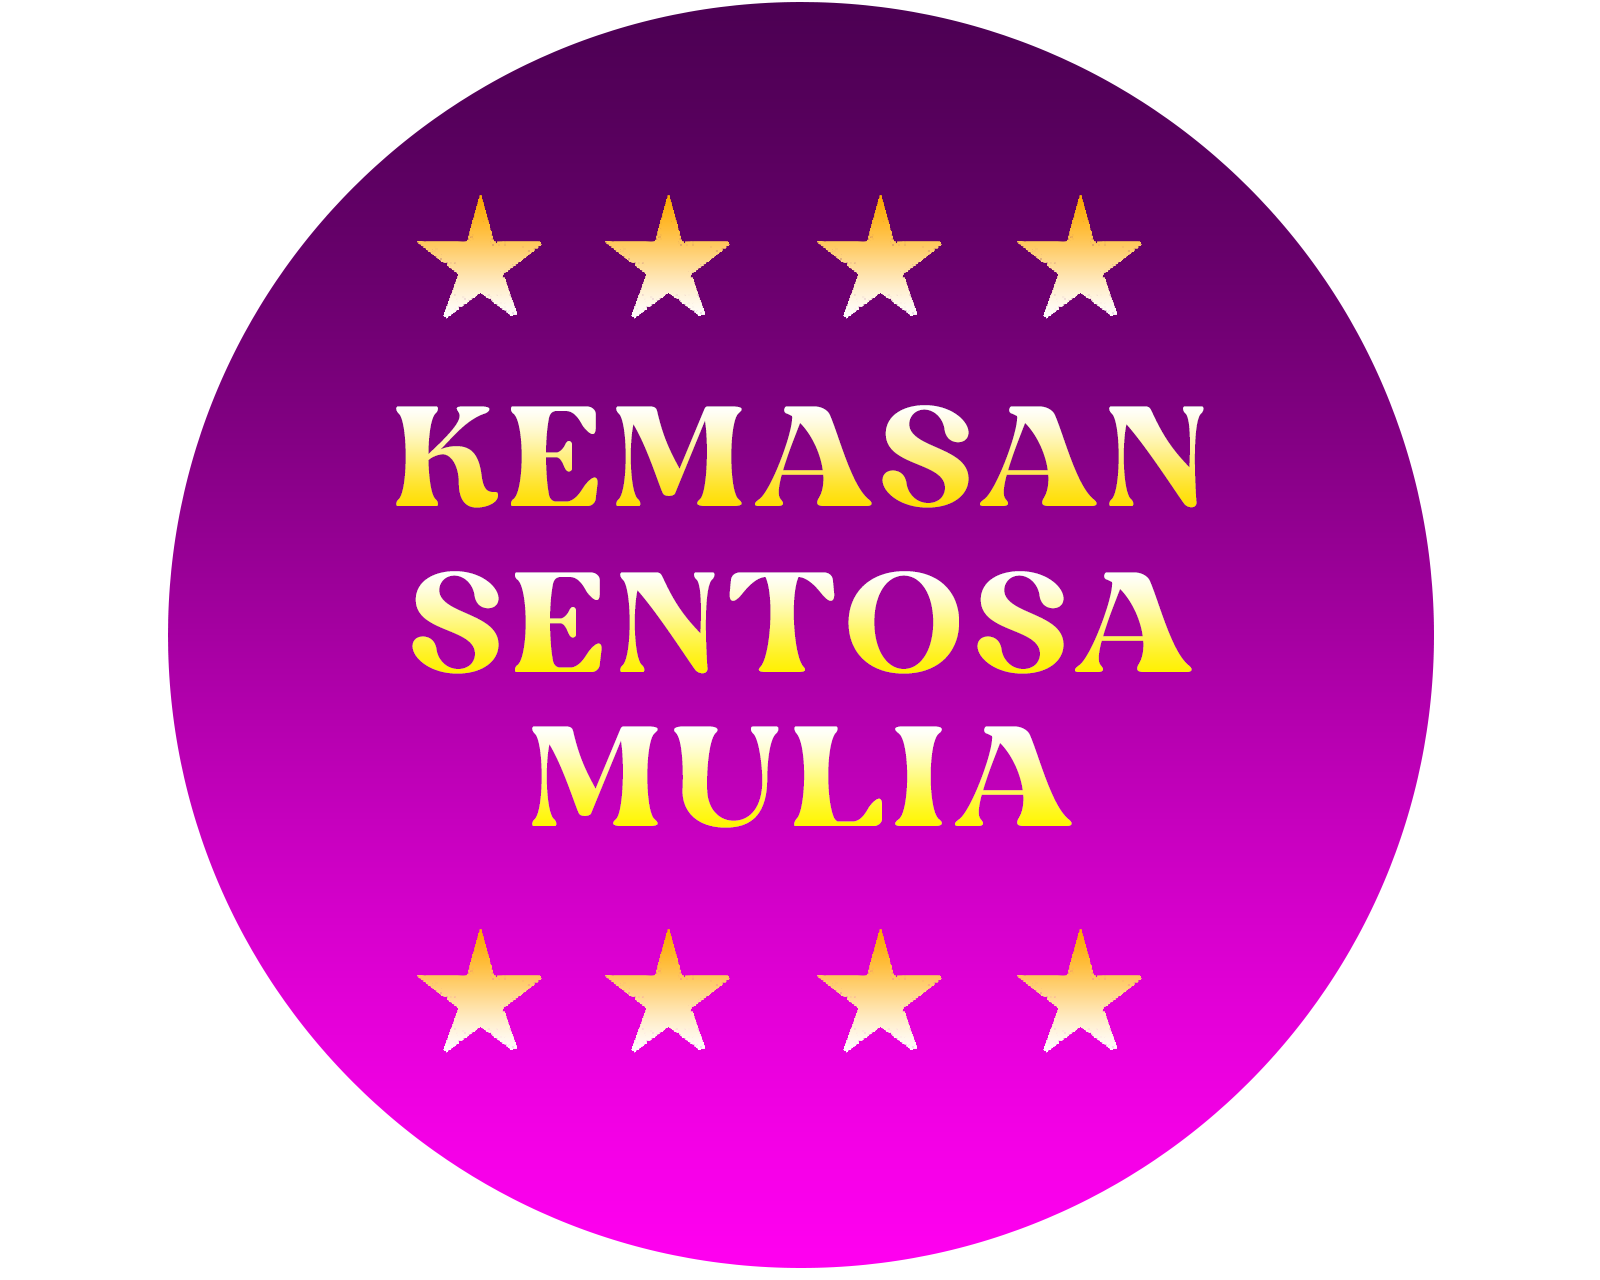
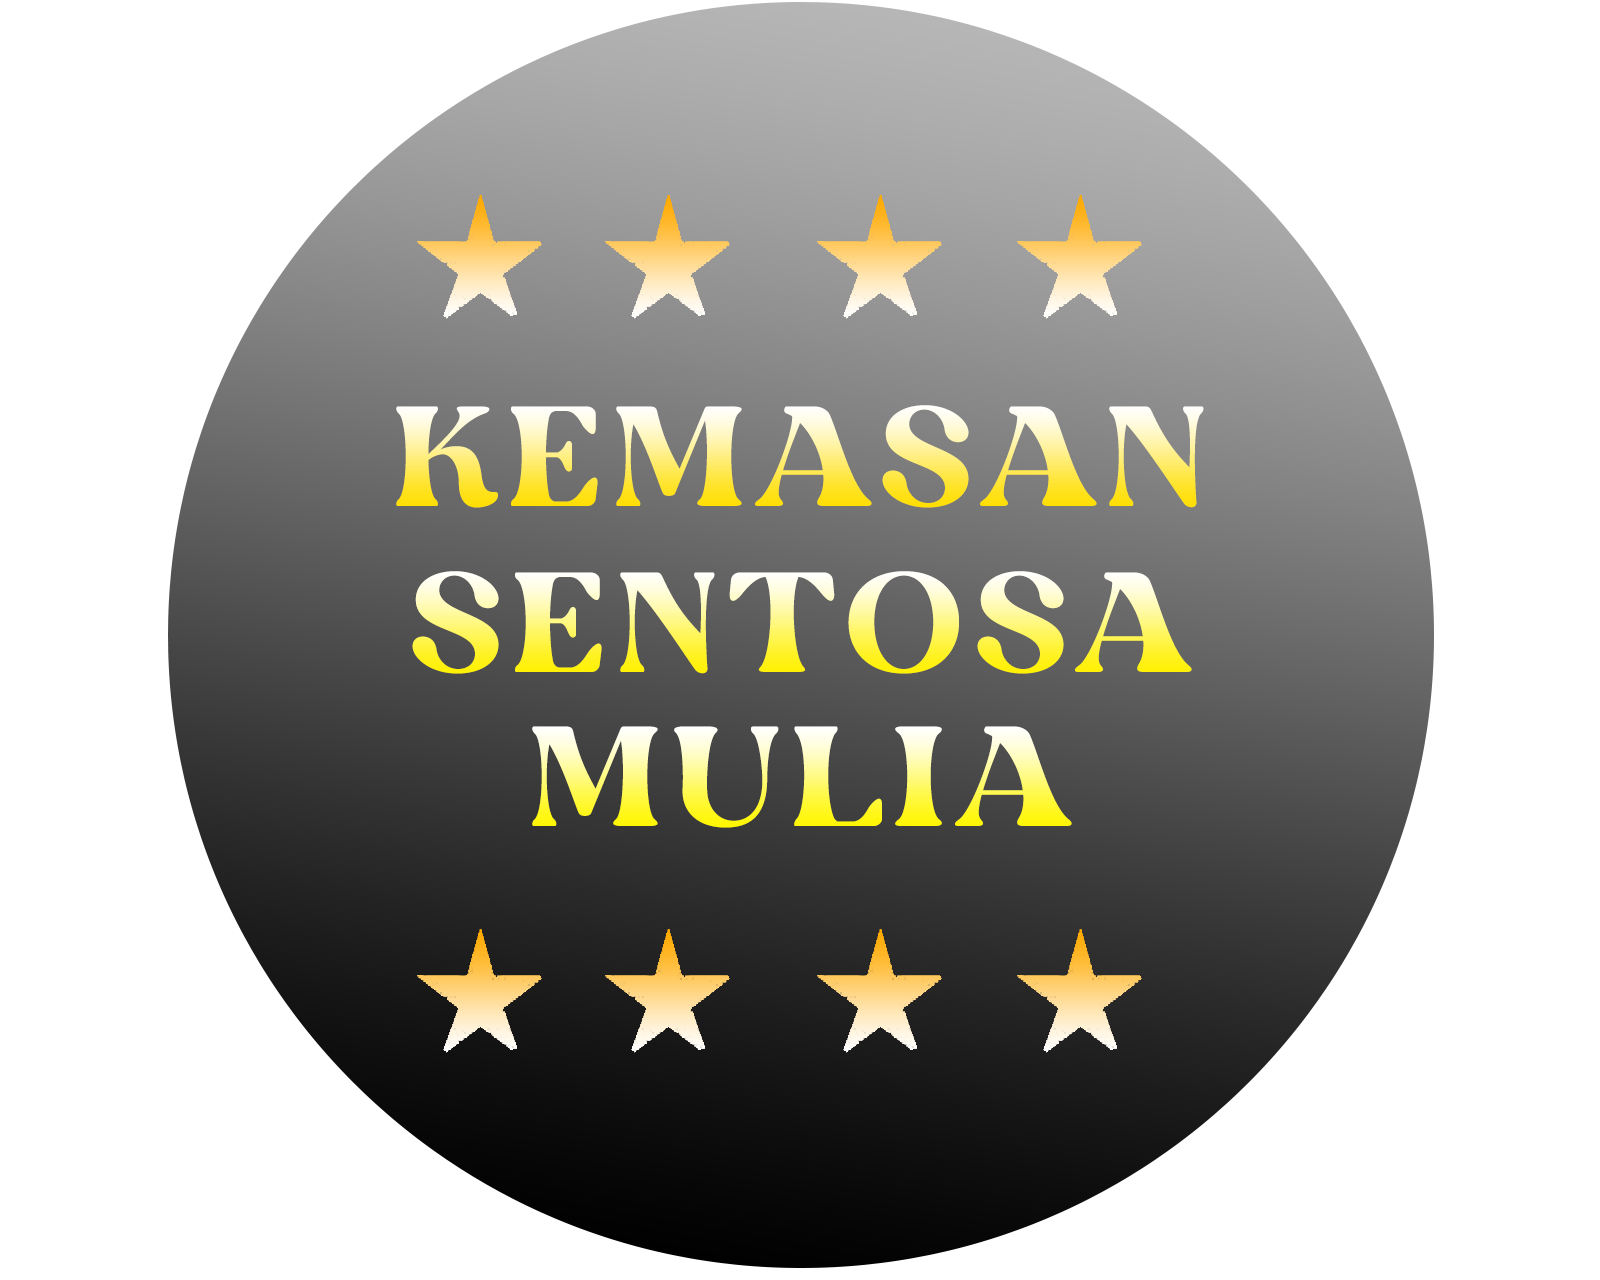
ubah warna ksm 070224

diff --git a/assets/dist/css/adminlte_ksm.min.css b/assets/dist/css/adminlte_ksm.min.css
@@ -2548,7 +2548,7 @@
  [class*=sidebar-light-] .nav-flat .nav-item .nav-treeview .nav-treeview{border-color:rgba(0,0,0,.1)}
  [class*=sidebar-light-] .nav-flat .nav-item .nav-treeview>.nav-item>.nav-link,[class*=sidebar-light-] .nav-flat .nav-item .nav-treeview>.nav-item>.nav-link.active{border-color:rgba(0,0,0,.1)}
  /* ganti */
- [class*=sidebar-dark-]{background-color:#343a40;background-image: linear-gradient(180deg,#ff11f6 10%,#450754 100%);} 
+ [class*=sidebar-dark-]{background-color:#343a40;background-image: linear-gradient(180deg,#f8f9fc 10%,#000000 100%);} 
  [class*=sidebar-dark-] .user-panel a:hover{color:#fff}
  [class*=sidebar-dark-] .user-panel .status{background:rgba(255,255,255,.1);color:#c2c7d0}
  [class*=sidebar-dark-] .user-panel .status:active,[class*=sidebar-dark-] .user-panel .status:focus,[class*=sidebar-dark-] .user-panel .status:hover{background:rgba(247,247,247,.1);color:#fff}
@@ -2873,7 +2873,7 @@
 }
  .nav-pills .nav-link{color:#6c757d}
  /* ganti */
- .nav-pills .nav-link:not(.active):hover{color:#fff;background-image: linear-gradient(180deg,#ff40fa 10%,#af1298 100%);} 
+ .nav-pills .nav-link:not(.active):hover{color:#fff;background-image: linear-gradient(180deg,#a8a8a9 10%,#5a5a5a 100%);} 
  .nav-pills .nav-item.dropdown.show .nav-link:hover{color:#fff}
  .nav-tabs.flex-column{border-bottom:0;border-right:1px solid #dee2e6}
  .nav-tabs.flex-column .nav-link{border-bottom-left-radius:.25rem;border-top-right-radius:0;margin-right:-1px}
@@ -2911,7 +2911,7 @@
  .navbar-teal{background-color:#20c997}
  .navbar-cyan{background-color:#17a2b8}
  /* ganti */
- .navbar-white{background-image: linear-gradient(180deg,#fe1ad4 10%,#c112cd 100%);}
+ .navbar-white{background-image: linear-gradient(180deg,#f8f9fc 10%,#8b8b8b 100%);}
  .navbar-gray{background-color:#6c757d}
  .navbar-gray-dark{background-color:#343a40}
  .form-group.has-icon{position:relative}
@@ -4199,7 +4199,7 @@
  .login-logo a,.register-logo a{color:#fff}
  .login-page,.register-page{-ms-flex-align:center;align-items:center;
     /* ganti */
-  background-image: linear-gradient(180deg,#ff11f6 10%,#450754 100%);display:-ms-flexbox;display:flex;-ms-flex-direction:column;flex-direction:column;height:90vh;-ms-flex-pack:center;justify-content:center}
+  background-image: linear-gradient(180deg,#f8f9fc 10%,#000000 100%);display:-ms-flexbox;display:flex;-ms-flex-direction:column;flex-direction:column;height:90vh;-ms-flex-pack:center;justify-content:center}
  .login-box,.register-box{width:360px}
  @media (max-width:576px){.login-box,.register-box{margin-top:.5rem;width:90%}
 }
@@ -6384,13 +6384,13 @@
     width:250px;
     /* background:#2A3F54; */
     /* ganti */
-    background-image: linear-gradient(180deg,#5d0869 10%,#6a0860 100%);
+    background-image: linear-gradient(180deg,#1e1e1e 10%,#000000 100%);
     z-index:999
 }
 .color-tabel {
     /* ganti */
 
-    background-image: linear-gradient(180deg,#f222c3 10%,#ba02bf 100%);
+    background-image: linear-gradient(180deg,#e3e4e6 10%,#7d7d7d 100%);
     text-align: center;
     justify-content:center;
     color: #000;
